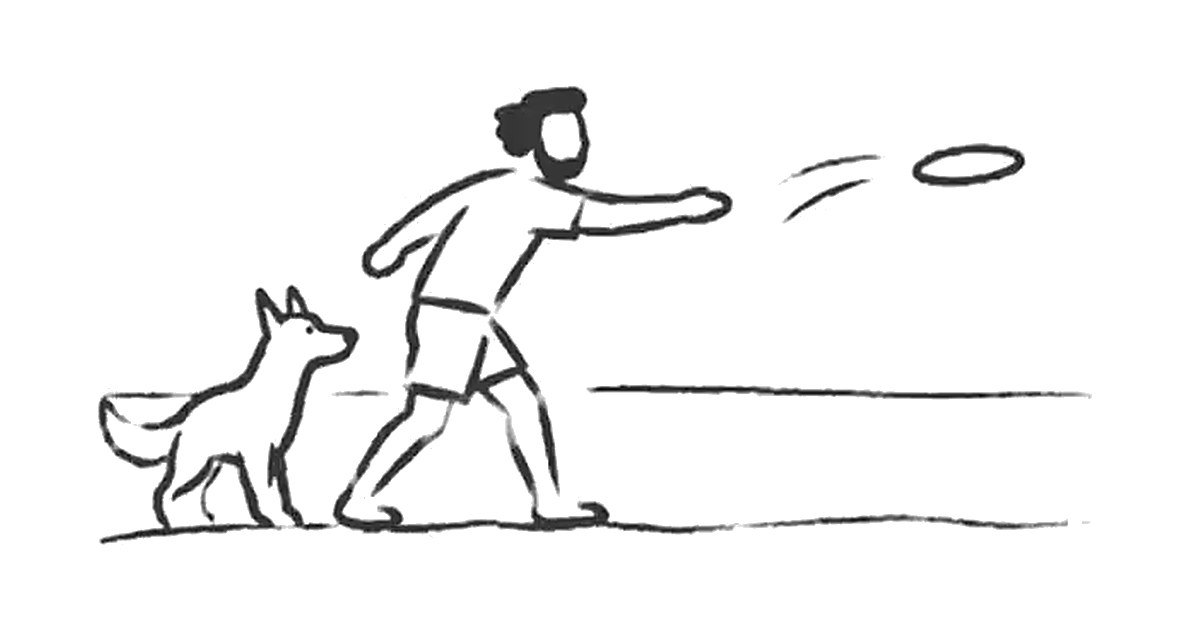
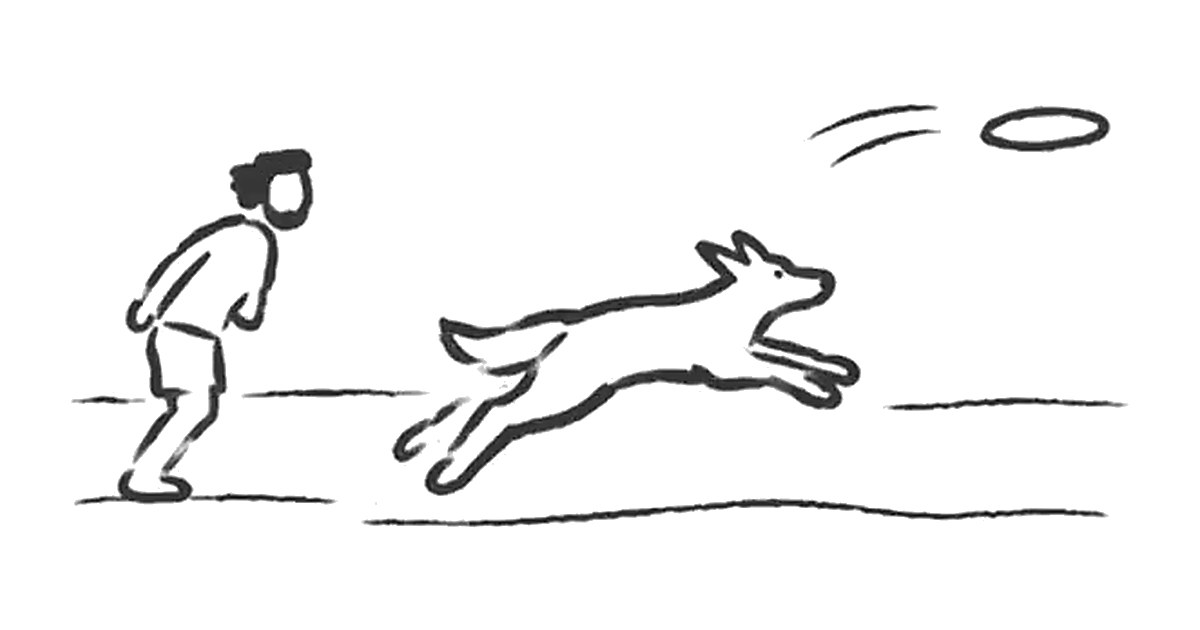
Share preview: Juhu leaps after the frisbee while Tony watches (frame 162)

Changed region(s): [[0.0617, 0.1206, 0.9558, 0.8746], [0.6475, 0.1508, 0.925, 0.3619]]

diff --git a/index.html b/index.html
@@ -13,7 +13,7 @@
   <meta property="og:image" content="https://tonyjoyk.github.io/tony-joy-portfolio/images/og-tony-juhu.jpg">
   <meta property="og:image:width" content="1200">
   <meta property="og:image:height" content="630">
-  <meta property="og:image:alt" content="A pencil drawing of Tony throwing a frisbee while his dog Juhu watches">
+  <meta property="og:image:alt" content="A pencil drawing of Tony watching his dog Juhu leap after a frisbee">
   <meta name="twitter:card" content="summary_large_image">
   <meta name="color-scheme" content="light">
   <meta name="theme-color" content="#FFFFFF">

diff --git a/readme.md b/readme.md
@@ -40,7 +40,7 @@ Open http://localhost:8080.
 | `images/walking-for-nothing.webp`, `medicine-tracker.webp` | Side project thumbnails (captured from the live sites) |
 | `images/design-together.webp`, `memorymoments.webp` | Side project thumbnails (captured from local runs of the private repos) |
 | `images/footer-landscape.svg` | Footer landscape source (the frisbee is its own group, so it can float) |
-| `images/og-image.jpg` | Social preview image (600×600) |
+| `images/og-tony-juhu.jpg` | Social preview image (1200×630): Juhu leaps after the frisbee, a frame of the hero loop |
 | `scripts/optimize-images.py` | Resizes images to 2x display width, saves WebP |
 | `scripts/build-footer-svg.py` | Traces the footer drawing, adds the full-width ground line, splits out the frisbee |
 | `docs/planning/` | BMAD docs: round 1 at the top level, round 2 in `round-2/` |
